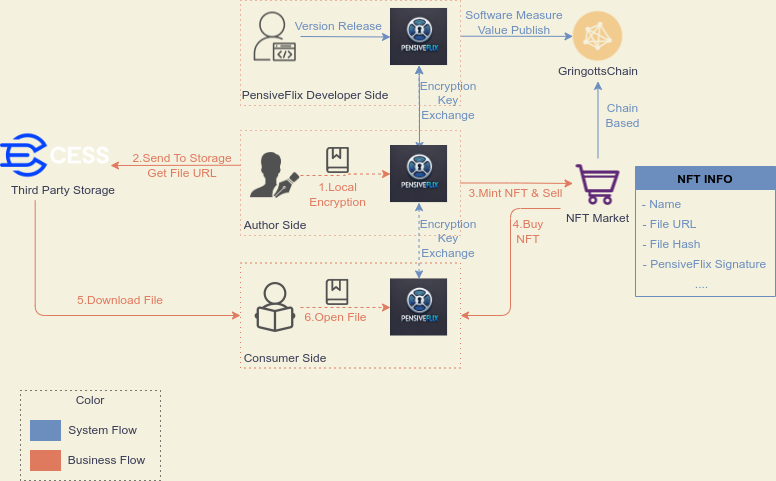
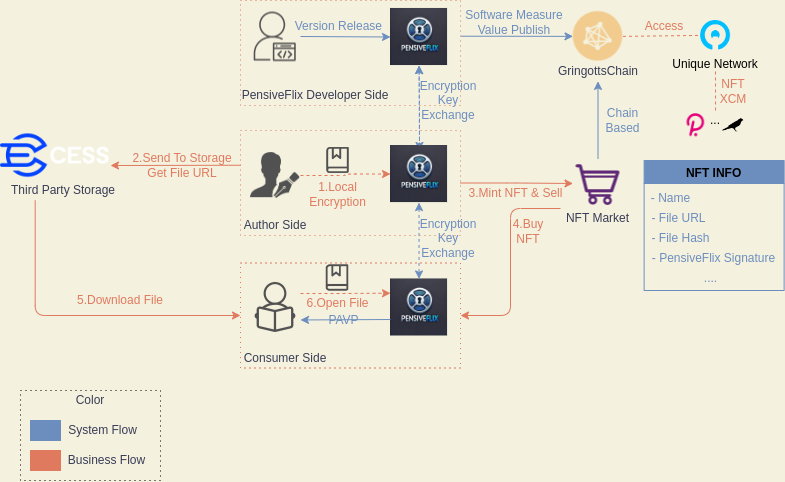
docs:update README

diff --git a/bangkok/31-PensiveFlix/README.md b/bangkok/31-PensiveFlix/README.md
@@ -1,6 +1,6 @@
 # PensiveFlix
 
-<img src="./doc/PensiveFlixLogo.jpg" alt="PensiveFlix" style="zoom: 33%;" />
+<img src="./doc/PensiveFlixLogo.jpg" alt="PensiveFlix" style="width: 25%;" />
 
 ## What is PensiveFlix
 
@@ -10,36 +10,88 @@
 
 	For convenience and efficiency, many internet users now choose to enhance their knowledge by learning online. As the demand for knowledge continues to grow, intellectual property owners are becoming increasingly aware of the need to protect their knowledge. Against this backdrop, paid knowledge-sharing platforms are becoming more common. However, current platforms for knowledge protection face the following shortcomings:
 
-* 😰**High costs of copyright protection**: Intellectual property owners often need to pay significant fees for protecting their rights. These costs are typically charged by knowledge-sharing platforms for services like custodial storage and encryption of the owner's content. Additionally, these platforms may impose extra fees on the intellectual property that the owners sell.
 * 😰**Poor security**: As seekers of knowledge protection services, intellectual property owners are required to unconditionally trust all the terms of centralized knowledge-sharing platforms and upload their content to these platforms. This means that the platform also has absolute control over the knowledge.
+* 😰**High costs of copyright protection**: Intellectual property owners often need to pay significant fees for protecting their rights. These costs are typically charged by knowledge-sharing platforms for services like custodial storage and encryption of the owner's content. Additionally, these platforms may impose extra fees on the intellectual property that the owners sell.
 * 😰**Unused knowledge cannot be resold**: For users, owning knowledge products that are no longer needed but left idle on a platform is wasteful. They are unable to get a refund or resell the purchased content to others.
 * 😰**Numerous and incompatible platforms**: Users have diverse knowledge needs, and for those seeking knowledge from various sources, the existence of numerous knowledge-sharing platforms increases the complexity of obtaining information. Users may need to download multiple applications to access knowledge available across different platforms.
 
 ## Introduction
 
-	PensiveFlix was created specifically for the paid knowledge-sharing sector, offering a new solution for intellectual property protection. It consists of a blockchain built on Substrate (named Gringotts), which supports NFT minting, and a specialized player (PensiveFlix) running within Intel SGX's Enclave.
+	PensiveFlix was created specifically for the paid knowledge-sharing sector, offering a new solution for intellectual property protection. It consists of a blockchain built on Substrate (named Gringotts), which supports NFT minting, and a specialized player (PensiveFlix) running within TEE environment.
 
-	As NFT merchants on PensiveFlix, knowledge owners only need to encrypt their content in a trusted local environment provided by PensiveFlix. Once the knowledge is encrypted, the file can be uploaded to decentralized storage infrastructures like CESS. During the NFT minting process, the file link and other relevant information are added, then you will completing the listing for intellectual property sale. Any user can download the encrypted file, but PensiveFlix only allows NFT holders to play the encrypted content. Users can also resell the NFT under certain rules to earn a profit. Once the resale is successful, the previous owner loses the right to access the knowledge content.
+	The entire process of paid knowledge-sharing is protected within PensiveFlix, cutting out intermediaries from the transaction. This not only reduces the trust costs for both knowledge owners and consumers but also lowers costs for both parties. Also, unlike other web3 knowledge platforms, PensiveFlix completely blocks the possibility of illegal copying of digital copies of knowledge owners.
 
-	The entire process of paid knowledge-sharing is protected within PensiveFlix, cutting out intermediaries from the transaction. This not only reduces the trust costs for both knowledge owners and consumers but also lowers costs for both parties.
+	PensiveFlix integrates the infrastructure capabilities of the Polkadot ecosystem, uses the CESS network to store encrypted user knowledge content, and can use Polkadot's XCM protocol through the Unique network to help the NFT of the entire Polkadot ecosystem.
 
 <img src="./doc/PensiveFlixIntroduce.png" alt="introduce"  />
 
-==================Bounty Application: CESS==================
+==================Bounty Application: Unique Network==================
+
+==================Bounty Application: CESS Network==================
 
 ## Features planned for the Hackathon
 
 - [x] Users can purchase NFTs through the NFT marketplace and access the encrypted content, such as images, to view them using **PensiveFlix**.
-- [ ] PensiveFlix supports more format types, such as PDF, Word, Blu-ray movies, and more.
+- [x] PensiveFlix supports more format through PAVP technology, such as PDF, Word, Blu-ray movies, and more.
 - [ ] PensiveFlix is not limited to standard digital assets; it will support AI model data NFTs. PensiveFlix includes federated learning capabilities, allowing users to train AI models in a trusted environment.
 
 ## Architect
 
+	The structure of the fully functioning PensiveFlix program is as follows:
+
+<img src="./doc/PensiveFlixStructure.png" alt="PensiveFlixArchitect"/>
+
+* **PensiveFlix**: A TEE-protected program
+
+  **Bridge Program**: The bridge program is a backend service that helps PensiveFlix synchronize data such as pallets from the Gringotts chain.
+
+  **Chain RPC (optional)**: Provides on-chain data; it is not necessary to run locally, as other Chain RPC nodes can be used.
+
 	The system and business processes of PensiveFlix are illustrated in the diagram below:
 
-## 		<img src="./doc/PensiveFlixArchitect.png" alt="PensiveFlixArchitect"  />
+<img src="./doc/PensiveFlixArchitect.png" alt="PensiveFlixArchitect"/>
+
+* **Overall Business Process**:
+
+  	As NFT merchants on PensiveFlix, knowledge owners*(Author Side)* only need to encrypt their content in a trusted local environment provided by PensiveFlix*(step 1)*. Once the knowledge is encrypted, the file can be uploaded to decentralized storage infrastructures like CESS*(step 2)*. During the NFT minting process, the file link and other relevant information are added, then you will completing the intellectual property sale*(step 3)*. Any user can download the encrypted file*(step 5)*, but PensiveFlix only allows NFT holders*(step 4)* to play the encrypted content*(step 6)*. 
+
+  	Additionally, from a business perspective, knowledge owners can mint NFTs based on different contracts, leveraging PensiveFlix's capabilities. This means they can define various business logic scenarios, such as whether to allow buyers to resell, implement a "burn after reading" feature, subscription-based columns, and more.
+
+* **System Workflow**:
+
+  	PensiveFlix has a globally unique Masterkey, randomly generated within a TEE environment. This key is used as part of the encryption mechanism for users' content and is stored within each instance of PensiveFlix. The Masterkey is protected locally by TEE’s Measure encryption. Measure is a hash calculated by the TEE for the protected program, and because each version of PensiveFlix has different code, the Measure value will vary, ensuring that only PensiveFlix can use the Masterkey. No other entity can access or use the Masterkey. During version updates, the new version inherits operational data securely from the old version using ***"Trusted Channel"*** technology. Additionally, PensiveFlix instances can synchronize Masterkey information with each other using this ***"Trusted Channel"***.
+
+  Developers will publicly release version information by posting the corresponding PensiveFlix Measure on the Gringotts chain's pallet during each version release. A newly launched instance of PensiveFlix can interact securely with the chain using the ***"Trusted Off-chain Message Synchronization Mechanism"***.
+  
+  When users play content via PensiveFlix, audio and video streams are rendered to the user's playback devices using ***Protected Audio Video Path (PAVP)*** technology. This prevents unauthorized devices from hijacking the audio and video stream content.
+
+### Trusted Off-chain Message Synchronization Mechanism:
+
+<img src="./doc/OffChainMq.png" alt="PensiveFlixArchitect"/>
+
+	
+
+### Trusted Channel:
+
+	The Trusted Channel is a secure communication bridge between two PensiveFlix programs, enhanced by the attestation algorithms provided by TEE. This communication method, combined with the Trusted Off-chain Message Synchronization Mechanism, helps both parties verify each other's identity. Once both sides confirm the legitimacy of each other’s identity, they will agree on a symmetric key and use TLS to encrypt the communication content, ensuring that the information is not leaked. Below is the data handover process during a user's version update.
+
+<img src="./doc/TrustedChannel.png" alt="PensiveFlixArchitect"/>
+
+* **Step 1**: The old PensiveFlix generates a challenge using the attestation algorithm. The challenge includes the current block height, timestamp, and a data structure generated by the algorithm.
+
+  **Step 2**: The new PensiveFlix generates a symmetric key and includes it in the algorithm to create a proof. The proof is then returned and contains the Measure value.
+
+  **Step 3**: The old PensiveFlix receives the proof and verifies it, checking whether the Measure value from the new PensiveFlix is correct. If the Measure is correct, the old PensiveFlix encrypts the data using the symmetric key and sends it.
 
 
+
+### Protected Audio Video Path(PAVP):
+
+	PAVP is a set of technologies creating a "Protected Environment,that is used to enforce digital rights management (DRM) protections on content,It provides a "wall" against outside copying,where within the walls,content can be processed without making the content available to unapproved software.
+
+	For TEE technologies, such as Intel's, there is a system based on HDMI using HDCP (High-bandwidth Digital Content Protection) to safeguard the data within the TEE from being stolen. This is done through an authentication process that secures the entire video transmission channel, preventing unauthorized access or theft of the content.
+
+<img src="./doc/PAVP.png" alt="PensiveFlixArchitect"/>
 
 ## Advantages
 
